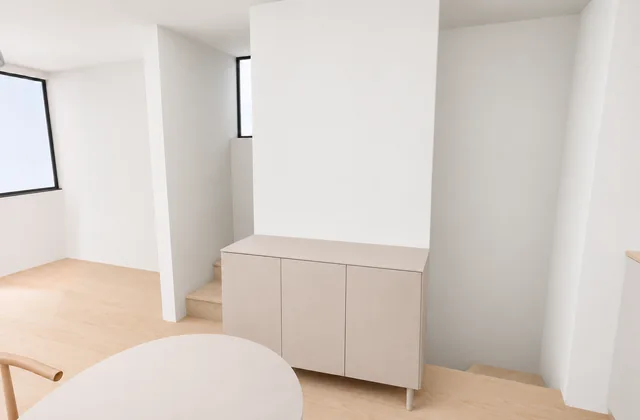
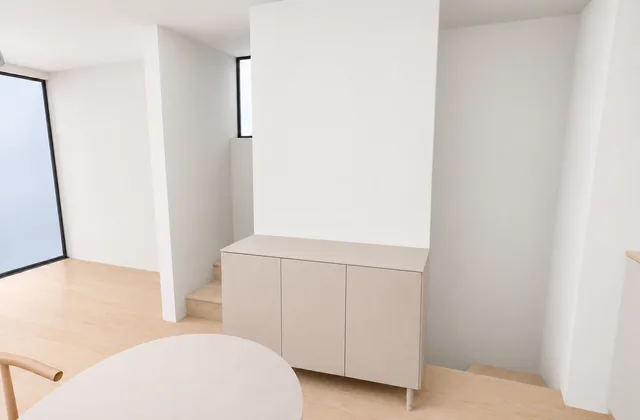
リビングの引違い窓を修正した写真4点に更新

Changed region(s): [[0.0, 0.3714, 0.125, 0.7119], [0.0312, 0.1857, 0.0625, 0.2167], [0.0, 0.1548, 0.0312, 0.1857]]

diff --git a/index.html b/index.html
@@ -20,19 +20,19 @@
     <a href="#stairs">階段・全体</a>
   </nav>
   <main>
-    <section id="living" aria-labelledby="living-title"><h2 id="living-title">リビング・ダイニング</h2><div class="cards"><a class="card card--feature" href="images/living.webp?v=85eb7af" data-photo="リビングからキッチン"><img src="images/living-small.webp?v=85eb7af" srcset="images/living-small.webp?v=85eb7af 640w, images/living.webp?v=85eb7af 1440w" sizes="(max-width: 560px) calc(100vw - 32px), (max-width: 850px) 91vw, 700px" width="640" height="420" alt="リビングからキッチン" fetchpriority="high" decoding="async"><span>リビングからキッチン</span></a>
-<a class="card" href="images/dining-table.webp?v=85eb7af" data-photo="テーブルとペンダント"><img src="images/dining-table-small.webp?v=85eb7af" srcset="images/dining-table-small.webp?v=85eb7af 640w, images/dining-table.webp?v=85eb7af 1440w" sizes="(max-width: 560px) calc(100vw - 32px), (max-width: 850px) 47vw, 360px" width="640" height="420" alt="テーブルとペンダント" loading="lazy" decoding="async"><span>テーブルとペンダント</span></a>
-<a class="card" href="images/dining-windows.webp?v=85eb7af" data-photo="ダイニングの高窓"><img src="images/dining-windows-small.webp?v=85eb7af" srcset="images/dining-windows-small.webp?v=85eb7af 640w, images/dining-windows.webp?v=85eb7af 1440w" sizes="(max-width: 560px) calc(100vw - 32px), (max-width: 850px) 47vw, 360px" width="640" height="420" alt="ダイニングの高窓" loading="lazy" decoding="async"><span>ダイニングの高窓</span></a>
-<a class="card" href="images/dining-stairwall.webp?v=85eb7af" data-photo="サイドボードと階段"><img src="images/dining-stairwall-small.webp?v=85eb7af" srcset="images/dining-stairwall-small.webp?v=85eb7af 640w, images/dining-stairwall.webp?v=85eb7af 1440w" sizes="(max-width: 560px) calc(100vw - 32px), (max-width: 850px) 47vw, 360px" width="640" height="420" alt="サイドボードと階段" loading="lazy" decoding="async"><span>サイドボードと階段</span></a>
-<a class="card" href="images/dining-reverse.webp?v=85eb7af" data-photo="キッチン側からリビング"><img src="images/dining-reverse-small.webp?v=85eb7af" srcset="images/dining-reverse-small.webp?v=85eb7af 640w, images/dining-reverse.webp?v=85eb7af 1440w" sizes="(max-width: 560px) calc(100vw - 32px), (max-width: 850px) 47vw, 360px" width="640" height="420" alt="キッチン側からリビング" loading="lazy" decoding="async"><span>キッチン側からリビング</span></a>
-<a class="card" href="images/living-window.webp?v=85eb7af" data-photo="リビングの引違い窓"><img src="images/living-window-small.webp?v=85eb7af" srcset="images/living-window-small.webp?v=85eb7af 640w, images/living-window.webp?v=85eb7af 1440w" sizes="(max-width: 560px) calc(100vw - 32px), (max-width: 850px) 47vw, 360px" width="640" height="420" alt="リビングの引違い窓" loading="lazy" decoding="async"><span>リビングの引違い窓</span></a></div></section>
-<section id="kitchen" aria-labelledby="kitchen-title"><h2 id="kitchen-title">キッチン</h2><div class="cards"><a class="card" href="images/from-sink.webp?v=85eb7af" data-photo="シンク前からダイニング"><img src="images/from-sink-small.webp?v=85eb7af" srcset="images/from-sink-small.webp?v=85eb7af 640w, images/from-sink.webp?v=85eb7af 1440w" sizes="(max-width: 560px) calc(100vw - 32px), (max-width: 850px) 47vw, 360px" width="640" height="420" alt="シンク前からダイニング" loading="lazy" decoding="async"><span>シンク前からダイニング</span></a>
-<a class="card" href="images/front-storage.webp?v=85eb7af" data-photo="キッチン前収納"><img src="images/front-storage-small.webp?v=85eb7af" srcset="images/front-storage-small.webp?v=85eb7af 640w, images/front-storage.webp?v=85eb7af 1440w" sizes="(max-width: 560px) calc(100vw - 32px), (max-width: 850px) 47vw, 360px" width="640" height="420" alt="キッチン前収納" loading="lazy" decoding="async"><span>キッチン前収納</span></a>
-<a class="card" href="images/kitchen-overhead.webp?v=85eb7af" data-photo="キッチン俯瞰"><img src="images/kitchen-overhead-small.webp?v=85eb7af" srcset="images/kitchen-overhead-small.webp?v=85eb7af 640w, images/kitchen-overhead.webp?v=85eb7af 1440w" sizes="(max-width: 560px) calc(100vw - 32px), (max-width: 850px) 47vw, 360px" width="640" height="420" alt="キッチン俯瞰" loading="lazy" decoding="async"><span>キッチン俯瞰</span></a>
-<a class="card" href="images/kitchen-windows.webp?v=85eb7af" data-photo="キッチンの窓"><img src="images/kitchen-windows-small.webp?v=85eb7af" srcset="images/kitchen-windows-small.webp?v=85eb7af 640w, images/kitchen-windows.webp?v=85eb7af 1440w" sizes="(max-width: 560px) calc(100vw - 32px), (max-width: 850px) 47vw, 360px" width="640" height="420" alt="キッチンの窓" loading="lazy" decoding="async"><span>キッチンの窓</span></a></div></section>
-<section id="stairs" aria-labelledby="stairs-title"><h2 id="stairs-title">階段・全体</h2><div class="cards"><a class="card" href="images/stairs-front.webp?v=85eb7af" data-photo="階段正面"><img src="images/stairs-front-small.webp?v=85eb7af" srcset="images/stairs-front-small.webp?v=85eb7af 640w, images/stairs-front.webp?v=85eb7af 1440w" sizes="(max-width: 560px) calc(100vw - 32px), (max-width: 850px) 47vw, 360px" width="640" height="420" alt="階段正面" loading="lazy" decoding="async"><span>階段正面</span></a>
-<a class="card" href="images/both-stair-turns.webp?v=85eb7af" data-photo="両側の回り段"><img src="images/both-stair-turns-small.webp?v=85eb7af" srcset="images/both-stair-turns-small.webp?v=85eb7af 640w, images/both-stair-turns.webp?v=85eb7af 1440w" sizes="(max-width: 560px) calc(100vw - 32px), (max-width: 850px) 47vw, 360px" width="640" height="420" alt="両側の回り段" loading="lazy" decoding="async"><span>両側の回り段</span></a>
-<a class="card" href="images/overview.webp?v=85eb7af" data-photo="2階LDKの全体俯瞰"><img src="images/overview-small.webp?v=85eb7af" srcset="images/overview-small.webp?v=85eb7af 640w, images/overview.webp?v=85eb7af 1440w" sizes="(max-width: 560px) calc(100vw - 32px), (max-width: 850px) 47vw, 360px" width="640" height="420" alt="2階LDKの全体俯瞰" loading="lazy" decoding="async"><span>2階LDKの全体俯瞰</span></a></div></section>
+    <section id="living" aria-labelledby="living-title"><h2 id="living-title">リビング・ダイニング</h2><div class="cards"><a class="card card--feature" href="images/living.webp?v=b5bafb2" data-photo="リビングからキッチン"><img src="images/living-small.webp?v=b5bafb2" srcset="images/living-small.webp?v=b5bafb2 640w, images/living.webp?v=b5bafb2 1440w" sizes="(max-width: 560px) calc(100vw - 32px), (max-width: 850px) 91vw, 700px" width="640" height="420" alt="リビングからキッチン" fetchpriority="high" decoding="async"><span>リビングからキッチン</span></a>
+<a class="card" href="images/dining-table.webp?v=b5bafb2" data-photo="テーブルとペンダント"><img src="images/dining-table-small.webp?v=b5bafb2" srcset="images/dining-table-small.webp?v=b5bafb2 640w, images/dining-table.webp?v=b5bafb2 1440w" sizes="(max-width: 560px) calc(100vw - 32px), (max-width: 850px) 47vw, 360px" width="640" height="420" alt="テーブルとペンダント" loading="lazy" decoding="async"><span>テーブルとペンダント</span></a>
+<a class="card" href="images/dining-windows.webp?v=b5bafb2" data-photo="ダイニングの高窓"><img src="images/dining-windows-small.webp?v=b5bafb2" srcset="images/dining-windows-small.webp?v=b5bafb2 640w, images/dining-windows.webp?v=b5bafb2 1440w" sizes="(max-width: 560px) calc(100vw - 32px), (max-width: 850px) 47vw, 360px" width="640" height="420" alt="ダイニングの高窓" loading="lazy" decoding="async"><span>ダイニングの高窓</span></a>
+<a class="card" href="images/dining-stairwall.webp?v=b5bafb2" data-photo="サイドボードと階段"><img src="images/dining-stairwall-small.webp?v=b5bafb2" srcset="images/dining-stairwall-small.webp?v=b5bafb2 640w, images/dining-stairwall.webp?v=b5bafb2 1440w" sizes="(max-width: 560px) calc(100vw - 32px), (max-width: 850px) 47vw, 360px" width="640" height="420" alt="サイドボードと階段" loading="lazy" decoding="async"><span>サイドボードと階段</span></a>
+<a class="card" href="images/dining-reverse.webp?v=b5bafb2" data-photo="キッチン側からリビング"><img src="images/dining-reverse-small.webp?v=b5bafb2" srcset="images/dining-reverse-small.webp?v=b5bafb2 640w, images/dining-reverse.webp?v=b5bafb2 1440w" sizes="(max-width: 560px) calc(100vw - 32px), (max-width: 850px) 47vw, 360px" width="640" height="420" alt="キッチン側からリビング" loading="lazy" decoding="async"><span>キッチン側からリビング</span></a>
+<a class="card" href="images/living-window.webp?v=b5bafb2" data-photo="リビングの引違い窓"><img src="images/living-window-small.webp?v=b5bafb2" srcset="images/living-window-small.webp?v=b5bafb2 640w, images/living-window.webp?v=b5bafb2 1440w" sizes="(max-width: 560px) calc(100vw - 32px), (max-width: 850px) 47vw, 360px" width="640" height="420" alt="リビングの引違い窓" loading="lazy" decoding="async"><span>リビングの引違い窓</span></a></div></section>
+<section id="kitchen" aria-labelledby="kitchen-title"><h2 id="kitchen-title">キッチン</h2><div class="cards"><a class="card" href="images/from-sink.webp?v=b5bafb2" data-photo="シンク前からダイニング"><img src="images/from-sink-small.webp?v=b5bafb2" srcset="images/from-sink-small.webp?v=b5bafb2 640w, images/from-sink.webp?v=b5bafb2 1440w" sizes="(max-width: 560px) calc(100vw - 32px), (max-width: 850px) 47vw, 360px" width="640" height="420" alt="シンク前からダイニング" loading="lazy" decoding="async"><span>シンク前からダイニング</span></a>
+<a class="card" href="images/front-storage.webp?v=b5bafb2" data-photo="キッチン前収納"><img src="images/front-storage-small.webp?v=b5bafb2" srcset="images/front-storage-small.webp?v=b5bafb2 640w, images/front-storage.webp?v=b5bafb2 1440w" sizes="(max-width: 560px) calc(100vw - 32px), (max-width: 850px) 47vw, 360px" width="640" height="420" alt="キッチン前収納" loading="lazy" decoding="async"><span>キッチン前収納</span></a>
+<a class="card" href="images/kitchen-overhead.webp?v=b5bafb2" data-photo="キッチン俯瞰"><img src="images/kitchen-overhead-small.webp?v=b5bafb2" srcset="images/kitchen-overhead-small.webp?v=b5bafb2 640w, images/kitchen-overhead.webp?v=b5bafb2 1440w" sizes="(max-width: 560px) calc(100vw - 32px), (max-width: 850px) 47vw, 360px" width="640" height="420" alt="キッチン俯瞰" loading="lazy" decoding="async"><span>キッチン俯瞰</span></a>
+<a class="card" href="images/kitchen-windows.webp?v=b5bafb2" data-photo="キッチンの窓"><img src="images/kitchen-windows-small.webp?v=b5bafb2" srcset="images/kitchen-windows-small.webp?v=b5bafb2 640w, images/kitchen-windows.webp?v=b5bafb2 1440w" sizes="(max-width: 560px) calc(100vw - 32px), (max-width: 850px) 47vw, 360px" width="640" height="420" alt="キッチンの窓" loading="lazy" decoding="async"><span>キッチンの窓</span></a></div></section>
+<section id="stairs" aria-labelledby="stairs-title"><h2 id="stairs-title">階段・全体</h2><div class="cards"><a class="card" href="images/stairs-front.webp?v=b5bafb2" data-photo="階段正面"><img src="images/stairs-front-small.webp?v=b5bafb2" srcset="images/stairs-front-small.webp?v=b5bafb2 640w, images/stairs-front.webp?v=b5bafb2 1440w" sizes="(max-width: 560px) calc(100vw - 32px), (max-width: 850px) 47vw, 360px" width="640" height="420" alt="階段正面" loading="lazy" decoding="async"><span>階段正面</span></a>
+<a class="card" href="images/both-stair-turns.webp?v=b5bafb2" data-photo="両側の回り段"><img src="images/both-stair-turns-small.webp?v=b5bafb2" srcset="images/both-stair-turns-small.webp?v=b5bafb2 640w, images/both-stair-turns.webp?v=b5bafb2 1440w" sizes="(max-width: 560px) calc(100vw - 32px), (max-width: 850px) 47vw, 360px" width="640" height="420" alt="両側の回り段" loading="lazy" decoding="async"><span>両側の回り段</span></a>
+<a class="card" href="images/overview.webp?v=b5bafb2" data-photo="2階LDKの全体俯瞰"><img src="images/overview-small.webp?v=b5bafb2" srcset="images/overview-small.webp?v=b5bafb2 640w, images/overview.webp?v=b5bafb2 1440w" sizes="(max-width: 560px) calc(100vw - 32px), (max-width: 850px) 47vw, 360px" width="640" height="420" alt="2階LDKの全体俯瞰" loading="lazy" decoding="async"><span>2階LDKの全体俯瞰</span></a></div></section>
   </main>
   <footer>俯瞰や回り段の一部は、内部が見えるように壁や天井を外して表示しています。</footer>
   <dialog aria-labelledby="photo-title">
